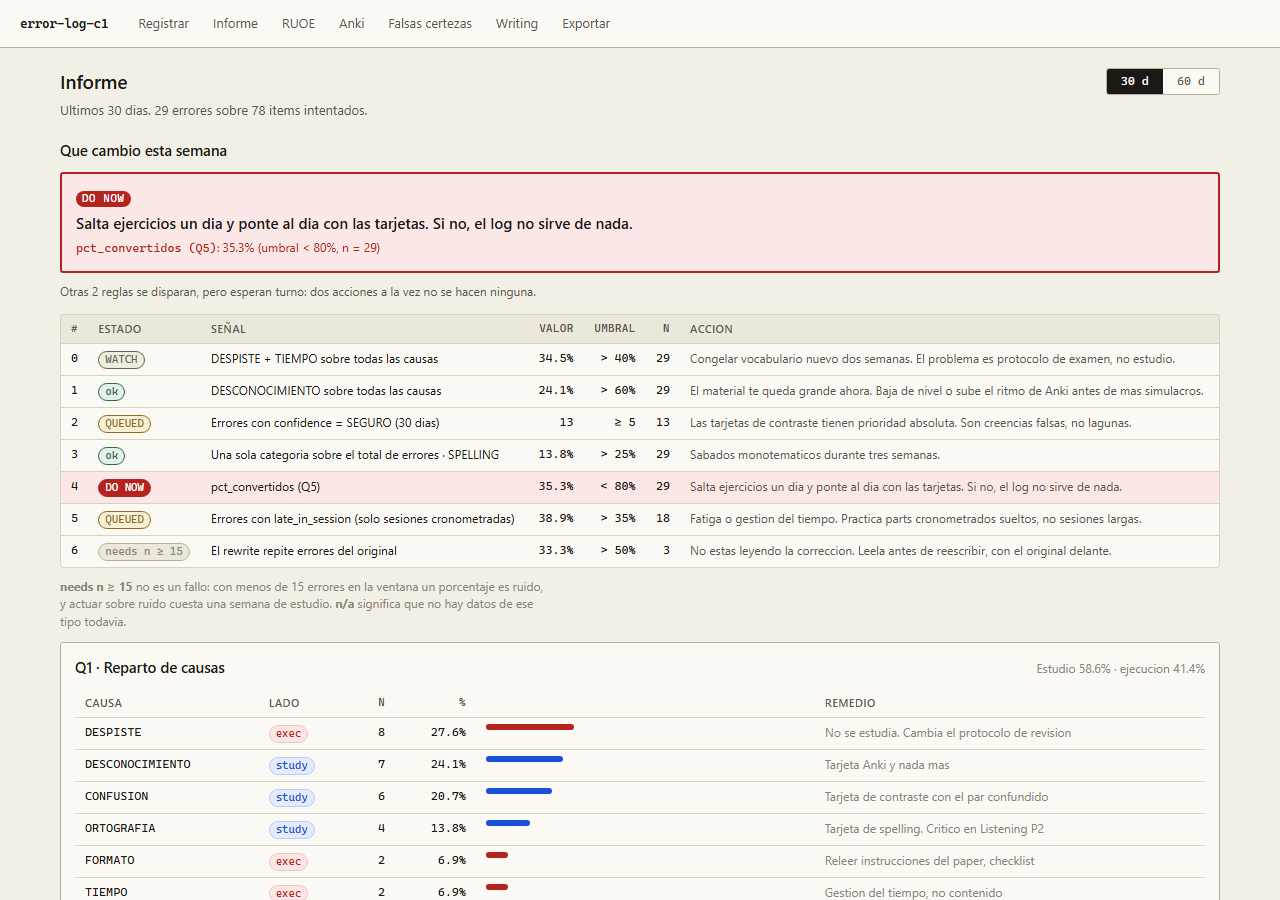
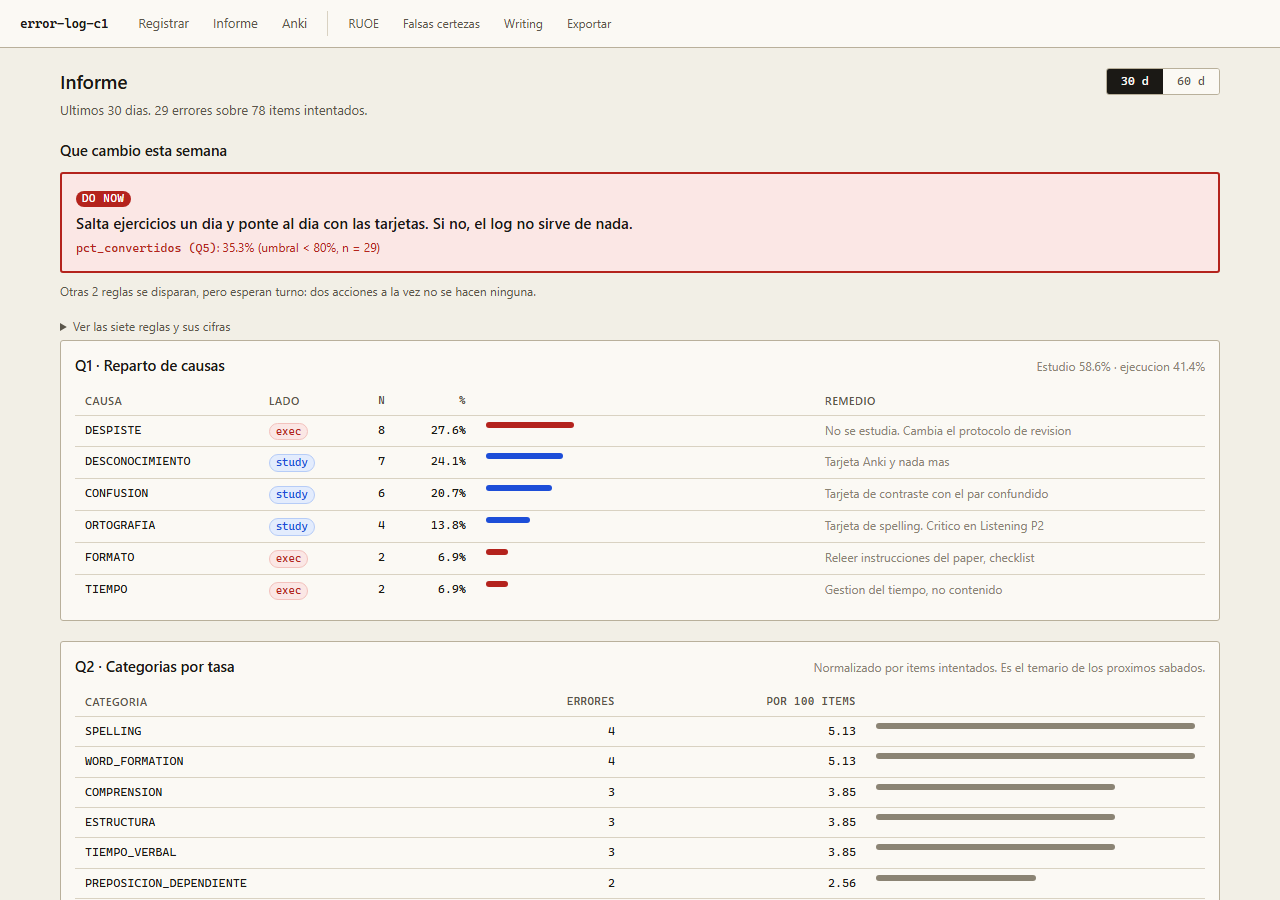
docs(media): regenerate screenshots and demo for the simplified UI

diff --git a/e2e/demo.spec.ts b/e2e/demo.spec.ts
@@ -69,6 +69,8 @@ test('recorrido de registro e informe para el README', async ({ page }) => {
   await frame(page, 4, 'Tus errores, guardados', 'La tanda se guarda completa; los duplicados de la misma sesión se omiten.');
 
   await page.goto('/informe');
-  await expect(page.getByRole('table', { name: /siete reglas/ })).toBeVisible();
+  // La captura muestra lo que se ve al abrir: la accion destacada y sus cifras. La tabla
+  // de las siete reglas queda plegada, que es su estado real por defecto.
+  await expect(page.getByText('DO NOW').first()).toBeVisible();
   await frame(page, 5, 'Elige una acción para esta semana', 'El informe prioriza el siguiente paso y muestra la cifra que lo justifica.');
 });

diff --git a/README.md b/README.md
@@ -30,7 +30,7 @@ La demo usa datos ficticios. [Ver el recorrido en imágenes estáticas](docs/DEM
 
 | Informe semanal | Evolución de Reading & Use of English |
 | --- | --- |
-| ![Informe con la acción prioritaria y sus reglas](docs/screenshots/informe.png) | ![Precisión por part y semana, con celdas sin datos diferenciadas](docs/screenshots/ruoe.png) |
+| ![Informe con la acción prioritaria y las cifras que la justifican](docs/screenshots/informe.png) | ![Precisión por part y semana, con celdas sin datos diferenciadas](docs/screenshots/ruoe.png) |
 
 ## Empezar
 
